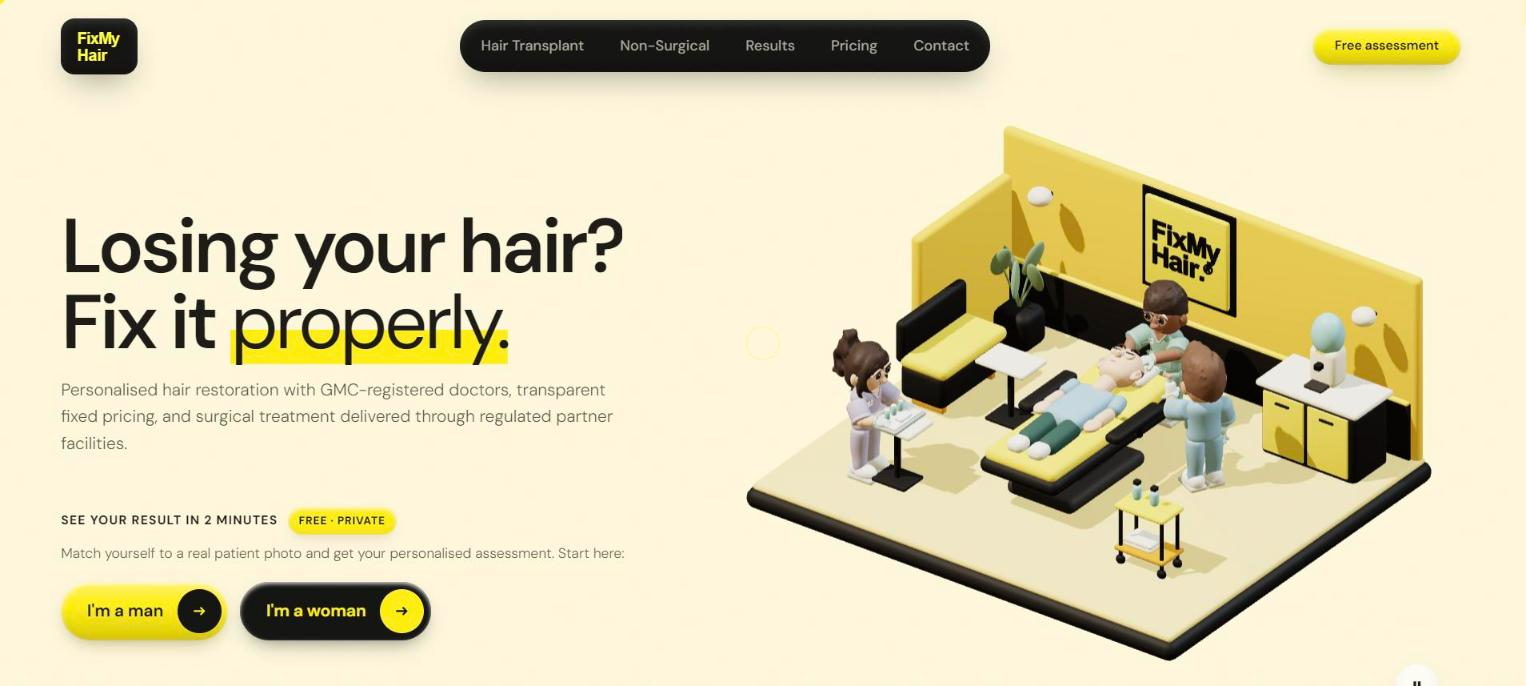
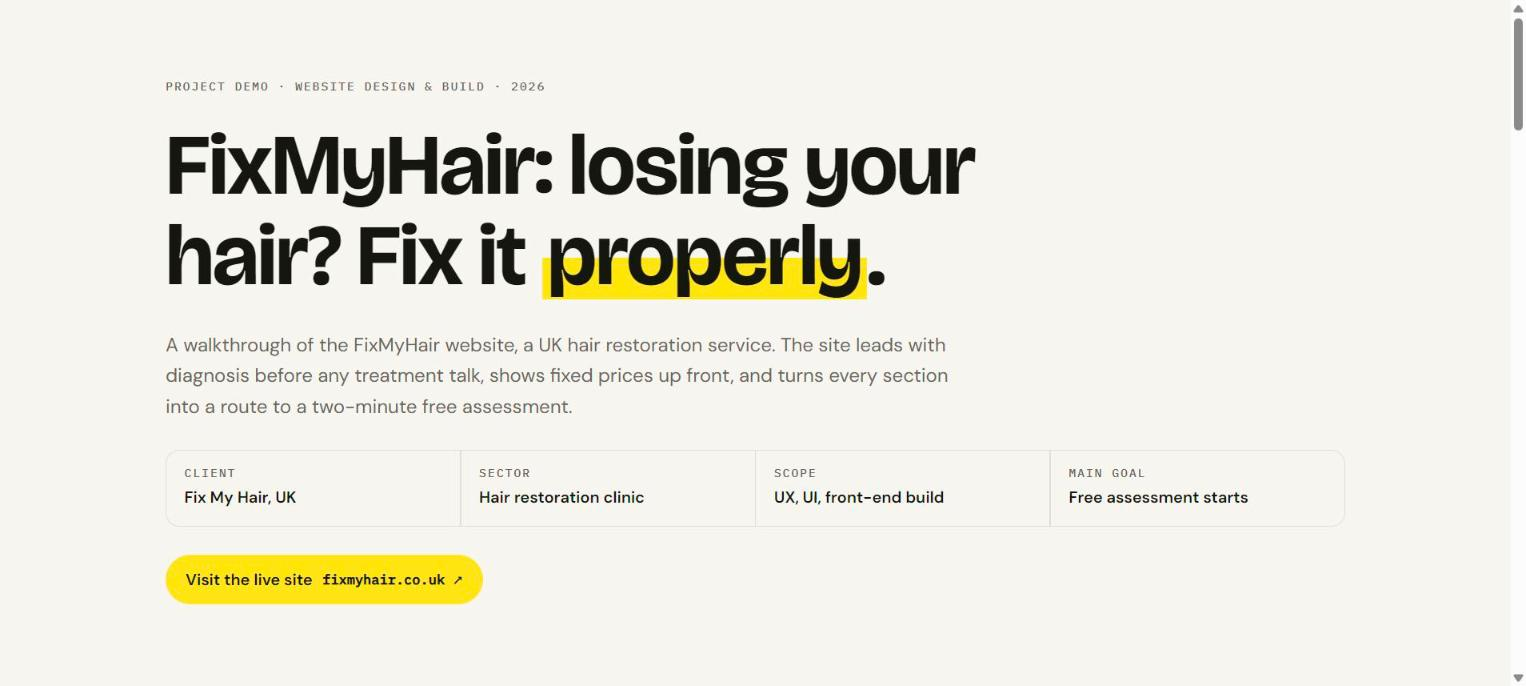
feat: replace FixMyHair card image with demo case-study hero + sharper description
- Image swapped from live-site hero to the project-demo page hero
  (bold "Fix it properly" + fact table — reads better at card scale).
- longDescription rewritten using the demo page's own framing: diagnosis-first,
  fixed pricing, two-minute free assessment, chaptered site anatomy.
- Added highlights list covering the real site features: before/after slider,
  12-month growth timeline, Twilio messaging, GMC/CQC credentials.

diff --git a/src/data/portfolio.js b/src/data/portfolio.js
@@ -126,8 +126,16 @@ export const projects = [
     impact: "Live production site",
     image: "/img/fixmyhair.jpg",
     longDescription: [
-      "Front-facing site for a UK hair-restoration clinic. Built around a cinematic homepage, honest clinical copy, and a booking flow that routes enquiries directly into the clinic's workflow.",
-      "Twilio handles the messaging layer so the clinic can send nurture texts and consultation reminders without a separate tool. Partner clinics across Liverpool, Nottingham, London, and Manchester are listed with their CQC references.",
+      "UX, UI, and front-end build for a UK hair restoration service. The site leads with diagnosis before any treatment talk, shows fixed prices up front, and turns every section into a route to a two-minute free assessment.",
+      "Key moments: hero + 3D clinic scene, trust bar, before/after slider, 'what describes you?' self-select, six treatment paths, four-step journey, 12-month growth timeline, and transparent pricing.",
+      "Twilio powers the messaging layer so the clinic sends nurture texts and consultation reminders without a separate tool. Partner clinics across Liverpool, Nottingham, London, and Manchester listed with CQC references.",
+    ],
+    highlights: [
+      "Diagnosis-first flow — assessment before any sales pitch",
+      "Fixed, transparent pricing on every treatment page",
+      "Interactive before/after slider and 12-month growth timeline",
+      "Twilio-backed messaging for nurture texts and reminders",
+      "GMC-registered doctors, CQC-regulated partner facilities",
     ],
   },
   {
